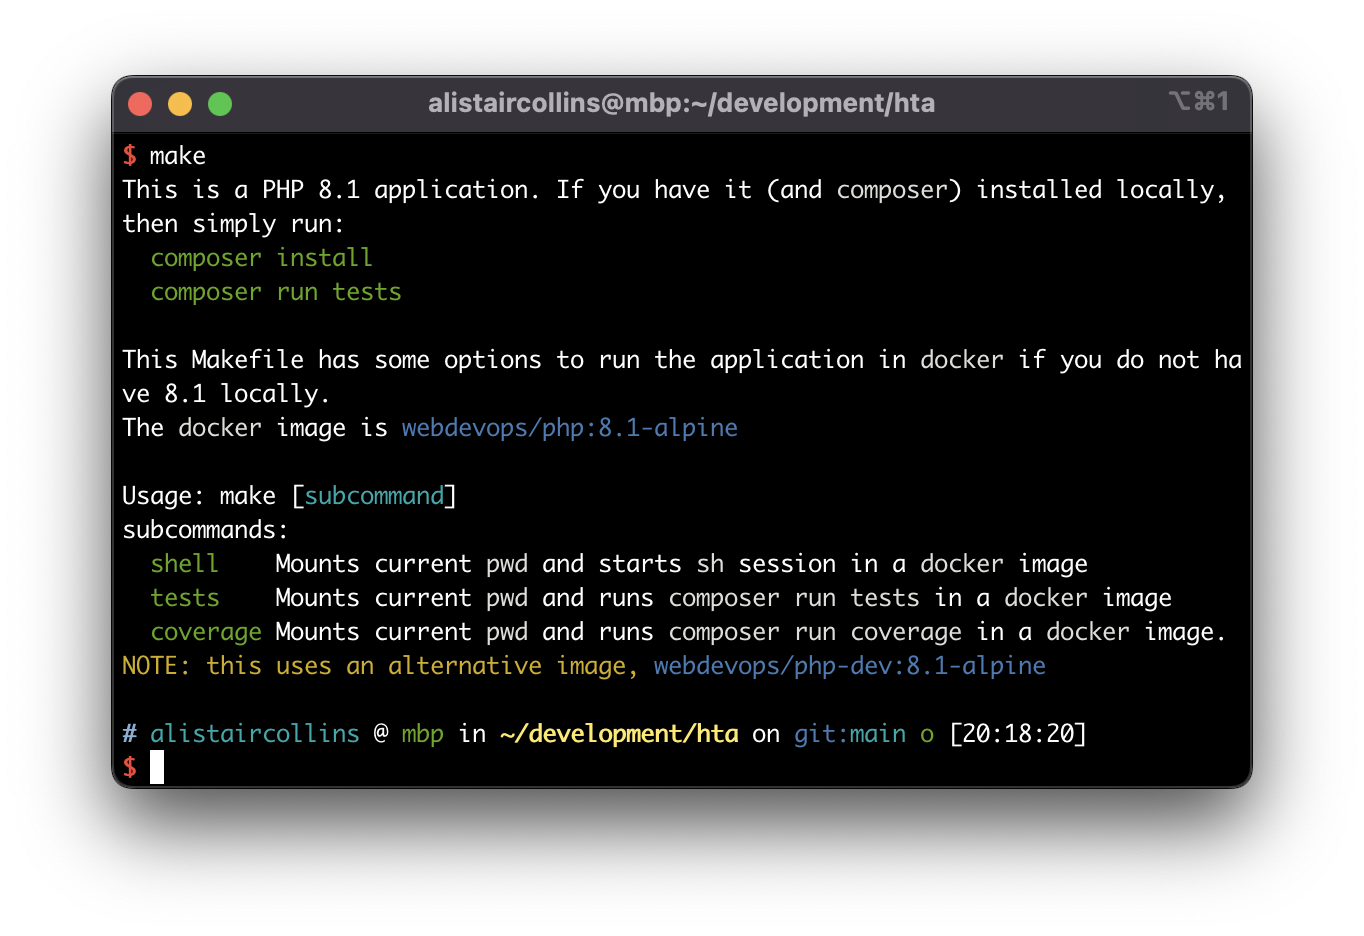
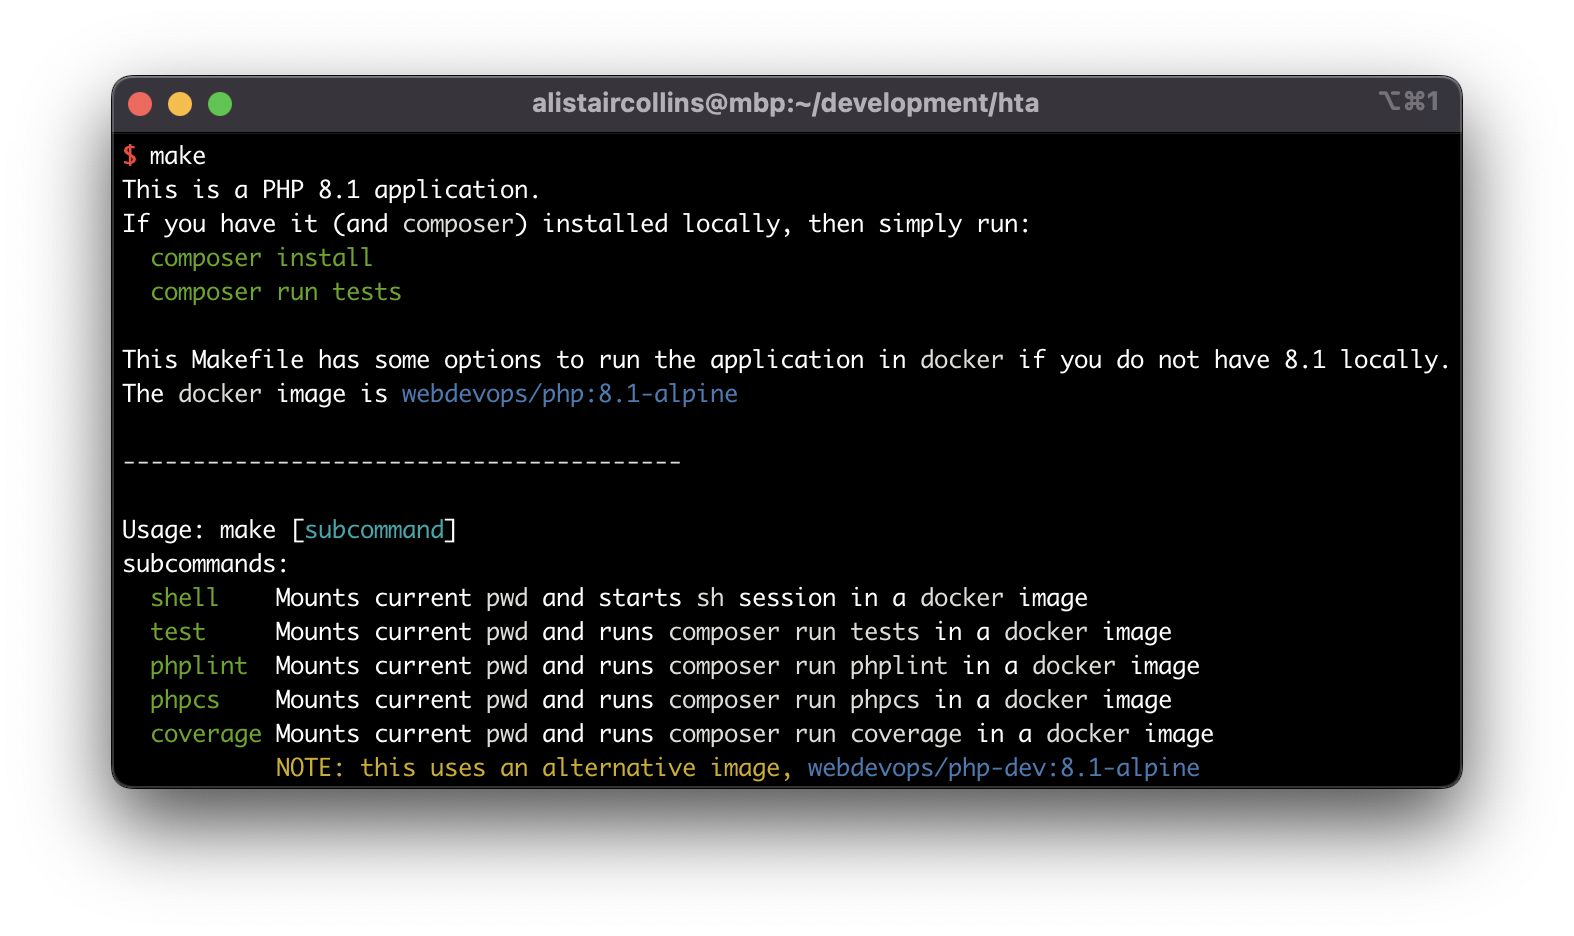
updated screenshots

Changed region(s): [[0.0616, 0.062, 0.9545, 0.8675], [0.3079, 0.0929, 0.7082, 0.1239]]

diff --git a/README.md b/README.md
@@ -33,13 +33,27 @@ make coverage
 
 ## Running the Application
 
+* `composer install` or `make install`
+* `composer run tests` or `make tests`
+
 ![make](https://raw.githubusercontent.com/alistaircol/hta/main/.github/make.png)
 
 ## Tests
 
+* `composer run tests` or `make test`
+
 ![make test](https://raw.githubusercontent.com/alistaircol/hta/main/.github/make_tests.png)
 
+## Linting
+
+* `composer run phplint` or `make phplint`
+* `composer run phpcs` or `make phpcs`
+
+![make phplint](https://raw.githubusercontent.com/alistaircol/hta/main/.github/make_tests.png)
+
 ## Coverage
+
+* `composer run coverage` or `make coverage`
 
 ![make coverage](https://raw.githubusercontent.com/alistaircol/hta/main/.github/make_coverage.png)
 
